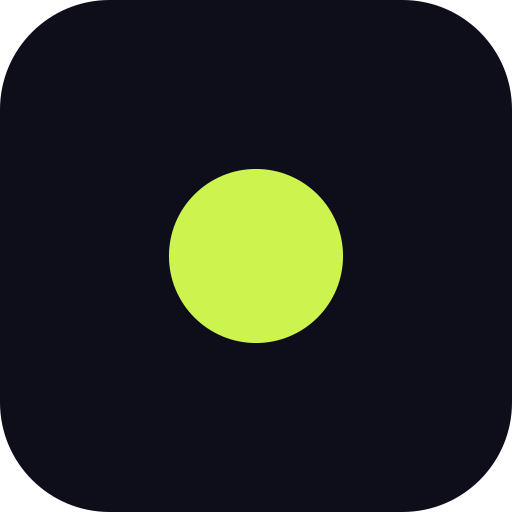
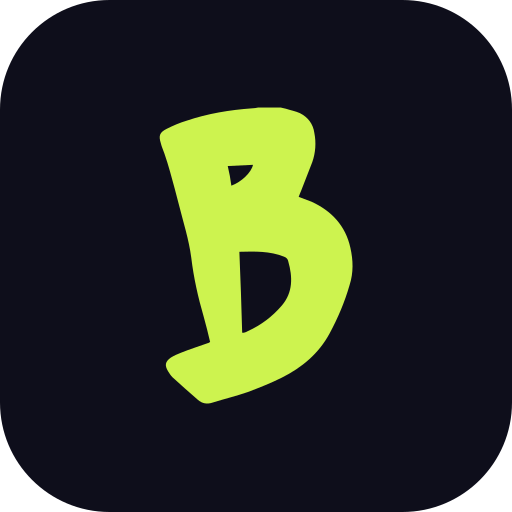
feat(brand): Manoyri wordmark live across every asset
The user-supplied Manoyri file now drives the pipeline: wordmark SVGs,
the lime-on-navy favicon monogram, email logo, and OG images all render
in the real face. Adds committed bys-wordmark-{lime,cream,navy}.svg so
the marketing nav/footer show Manoyri in production without shipping the
licensed font binary (runbook gains the scp step for the web font).

Changed region(s): [[0.3125, 0.1875, 0.6875, 0.8125]]

diff --git a/deploy/production/README.md b/deploy/production/README.md
@@ -56,6 +56,14 @@ cp .env.production.example .env
 nano .env    # fill every <PLACEHOLDER> — secrets, DB password, SMTP password
 ```
 
+Licensed brand fonts are gitignored, so copy them from your machine before the
+first build (logo/favicon images work without this, but the web font needs it):
+
+```bash
+scp apps/web/public/fonts/brand/*.otf apps/web/public/fonts/brand/*.woff2 \
+  root@<VPS_IP>:/opt/bookyourslot/apps/web/public/fonts/brand/ 2>/dev/null || true
+```
+
 ## 4. First build + start
 
 ```bash
